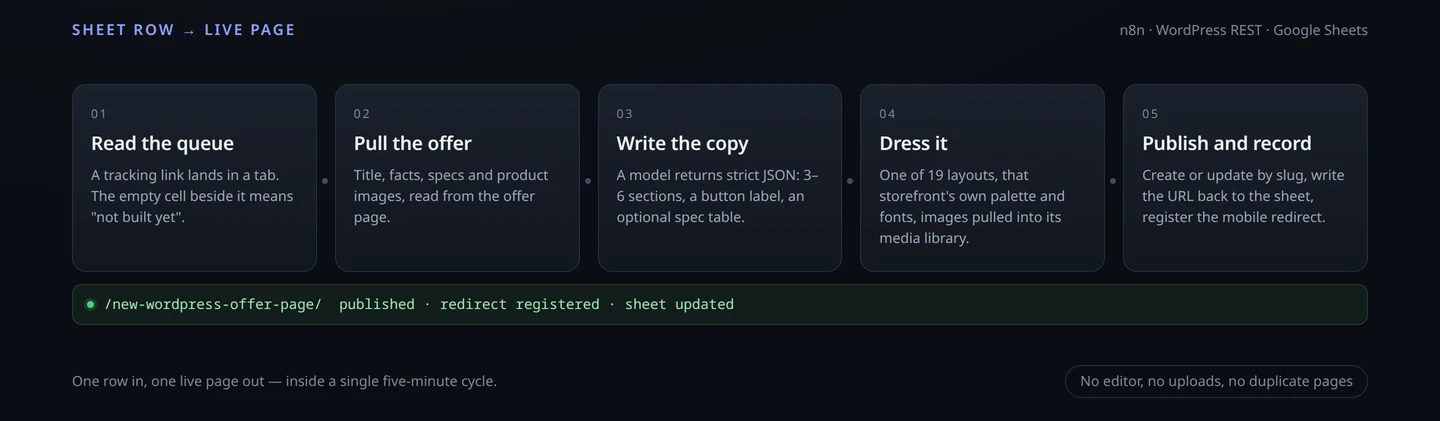
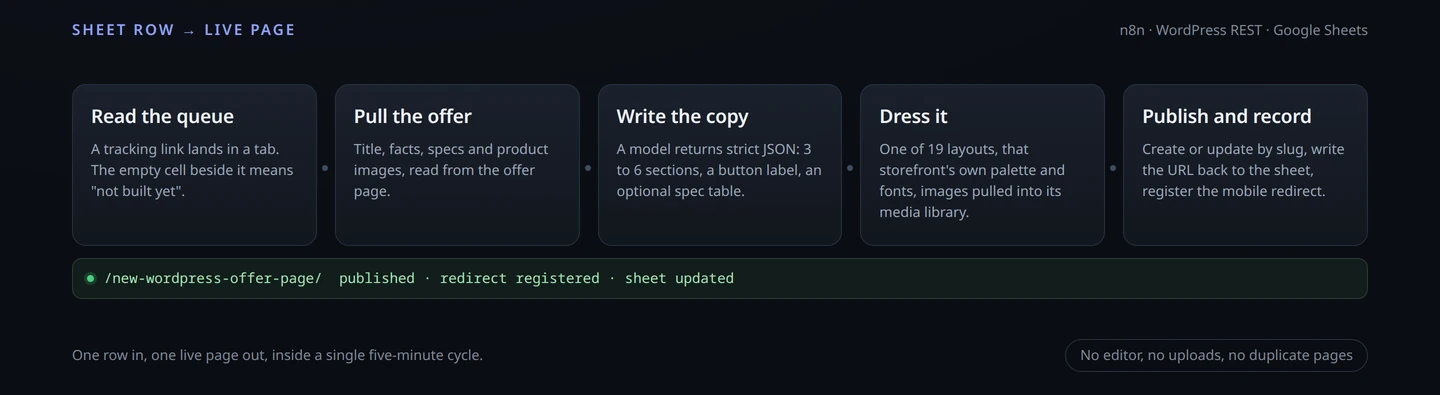
Tighten the offer pipeline page (#7)
Copy pass: removes the four em dashes and three en dashes (every other page
carries one at most), swaps clipped negations for full clauses, cuts passive
drift, and renames two labels that read backwards ("Same page, every
storefront" was about the opposite).

Design pass: headings drop from 50px to 40px, the four hard problems become a
label-and-prose grid instead of a single narrow column, the operator steps get
half-width columns instead of cramped quarters, and the hero is centred
against its mock sheet.

The diagram loses the 01-05 counters to match the page, and its caption loses
an em dash.

diff --git a/work/offer-pipeline/index.html b/work/offer-pipeline/index.html
@@ -26,54 +26,63 @@ a{color:inherit}
 img{display:block;max-width:100%;height:auto}
 .bar a{text-decoration:none}
 
-.hero{display:grid;grid-template-columns:1.1fr .9fr;gap:56px;align-items:center;padding:64px 0 72px}
-h1{font-size:clamp(32px,4.4vw,48px);line-height:1.1;font-weight:500;letter-spacing:-.035em;margin-top:10px}
-.hero p{margin-top:20px;color:var(--muted);font-size:17px;max-width:50ch}
-.facts{display:flex;flex-wrap:wrap;gap:8px;margin-top:28px;list-style:none;font-size:13px}
-.facts li{border:1px solid var(--line);border-radius:99px;padding:4px 12px}
+.hero{display:grid;grid-template-columns:1.15fr .85fr;gap:64px;align-items:center;padding:72px 0 60px}
+h1{font-size:clamp(31px,3.9vw,46px);line-height:1.07;font-weight:500;letter-spacing:-.038em;margin-top:12px;text-wrap:balance}
+.hero p{margin-top:22px;color:var(--muted);font-size:17px;line-height:1.65;max-width:46ch}
+.facts{display:flex;flex-wrap:wrap;gap:8px;margin-top:30px;list-style:none;font-size:13px}
+.facts li{border:1px solid var(--line);border-radius:99px;padding:5px 13px;color:var(--ink-soft)}
 
-.row{background:var(--soft);border:1px solid var(--line);border-radius:16px;overflow:hidden;font-size:13px}
-.row-head{display:flex;gap:8px;padding:10px 14px;border-bottom:1px solid var(--line);color:var(--muted);align-items:center}
+/* mock sheet */
+.row{background:var(--soft);border:1px solid var(--line);border-radius:14px;overflow:hidden;font-size:13px;margin-top:6px}
+.row-head{display:flex;gap:7px;padding:11px 15px;border-bottom:1px solid var(--line);color:var(--muted);align-items:center;font-size:12px}
 .row-head i{width:7px;height:7px;border-radius:50%;background:var(--line);display:inline-block}
-.row-body{padding:14px}
-.grid5{display:grid;grid-template-columns:repeat(5,1fr);gap:6px;font-size:11px;color:var(--muted);margin-bottom:10px}
+.row-body{padding:15px}
+.grid5{display:grid;grid-template-columns:repeat(5,1fr);gap:6px;font-size:10px;letter-spacing:.04em;text-transform:uppercase;color:var(--muted);margin-bottom:9px}
 .grid5 span{white-space:nowrap;overflow:hidden;text-overflow:ellipsis}
-.cell{border:1px solid var(--line);border-radius:6px;padding:7px 8px;background:#fff;font-family:ui-monospace,SFMono-Regular,Menlo,monospace;font-size:11px;line-height:1.35;overflow:hidden;text-overflow:ellipsis;white-space:nowrap}
+.cell{border:1px solid var(--line);border-radius:6px;padding:8px 9px;background:#fff;font-family:ui-monospace,SFMono-Regular,Menlo,monospace;font-size:11px;line-height:1.4;overflow:hidden;text-overflow:ellipsis;white-space:nowrap}
 .cell.link{color:#3a5bd9}
 .cell.done{color:#16794a;background:#f2fbf5;border-color:#cbe9d7}
-.shotline{display:flex;align-items:center;gap:8px;margin-top:12px;font-size:12px;color:var(--muted)}
+.shotline{margin-top:13px;font-size:12.5px;line-height:1.5;color:var(--muted)}
 .shotline b{color:var(--ink);font-weight:600}
 
-figure.ui{padding-bottom:40px}
-figure.ui .frame{border:1px solid var(--line);border-radius:12px;overflow:hidden;background:var(--soft)}
-figcaption{font-size:13px;color:var(--muted);margin-top:12px}
+figure.ui{padding:0 0 8px}
+figure.ui .frame{border:1px solid var(--line);border-radius:14px;overflow:hidden;background:var(--soft)}
+figcaption{font-size:13px;line-height:1.5;color:var(--muted);margin-top:14px;max-width:70ch}
 
-section.block{padding:56px 0 64px}
-.head{display:flex;justify-content:space-between;align-items:baseline;gap:16px;padding-bottom:20px;margin-bottom:24px;border-bottom:1px solid var(--line)}
-h2{font-size:clamp(32px,4.4vw,56px);line-height:1.05;font-weight:500;letter-spacing:-.04em}
-.lede{color:var(--muted);max-width:60ch;margin-bottom:32px}
-.steps{display:grid;grid-template-columns:repeat(4,1fr);gap:24px;list-style:none}
-.steps li{border-top:1px solid var(--ink);padding-top:14px;font-size:15px;color:var(--muted)}
-.steps b{display:block;color:var(--ink);font-weight:600;margin-bottom:4px}
-.steps.two{grid-template-columns:repeat(2,1fr);gap:28px 32px}
-.steps.five{grid-template-columns:repeat(5,1fr)}
-h3.sub{font-size:17px;font-weight:600;margin:48px 0 16px}
-h3.sub:first-child{margin-top:0}
+section.block{padding:68px 0 8px}
+.head{display:flex;justify-content:space-between;align-items:baseline;gap:16px;padding-bottom:16px;margin-bottom:30px;border-bottom:1px solid var(--line)}
+h2{font-size:clamp(26px,3.3vw,40px);line-height:1.08;font-weight:500;letter-spacing:-.035em;text-wrap:balance}
+.lede{color:var(--muted);max-width:56ch;margin-bottom:36px;font-size:17px;line-height:1.65}
+.steps{display:grid;grid-template-columns:repeat(4,1fr);gap:28px;list-style:none}
+.steps li{border-top:1px solid var(--ink);padding-top:15px;font-size:15px;line-height:1.6;color:var(--muted)}
+.steps b{display:block;color:var(--ink);font-weight:600;margin-bottom:6px;font-size:15.5px}
+.steps.two{grid-template-columns:repeat(2,1fr);gap:36px 40px}
+.steps.two li{padding-top:17px}
+/* each problem: label left, prose right */
+.problem{display:grid;grid-template-columns:.42fr 1fr;gap:12px 44px;padding:30px 0;border-top:1px solid var(--line)}
+.problem:first-of-type{border-top:0;padding-top:2px}
+.problem h3{font-size:16.5px;font-weight:600;line-height:1.45;letter-spacing:-.005em;color:var(--ink)}
+.problem p{color:var(--muted);font-size:16px;line-height:1.7;max-width:62ch}
+p.body{color:var(--muted);font-size:16.5px;line-height:1.7;max-width:68ch}
+p.body + p.body{margin-top:16px}
+p.body code{font-family:ui-monospace,SFMono-Regular,Menlo,monospace;font-size:14px;background:var(--soft);border:1px solid var(--line);border-radius:5px;padding:1px 6px}
 
-table{width:100%;border-collapse:collapse;font-size:15px}
-th,td{text-align:left;padding:10px 0;border-top:1px solid var(--line);vertical-align:top}
-th{font-size:13px;font-weight:500;color:var(--muted)}
-td:last-child,th:last-child{text-align:right;white-space:nowrap;padding-left:16px}
-.note{color:var(--muted);font-size:15px;margin-top:20px;max-width:64ch}
-.advice{margin-top:32px;padding:20px 24px;background:var(--soft);border:1px solid var(--line);border-radius:12px;max-width:72ch}
-.advice b{display:block;margin-bottom:4px}
-.advice p{color:var(--muted);font-size:15px}
+table{width:100%;border-collapse:collapse;font-size:15.5px}
+th,td{text-align:left;padding:13px 0;border-top:1px solid var(--line);vertical-align:top;line-height:1.55}
+th{font-size:12px;font-weight:500;letter-spacing:.06em;text-transform:uppercase;color:var(--muted);padding-bottom:10px}
+td:first-child{width:26%;color:var(--ink);font-weight:500;padding-right:28px}
+td:last-child{color:var(--muted)}
+.note{color:var(--muted);font-size:15px;line-height:1.65;margin-top:22px;max-width:64ch}
+.note b{color:var(--ink);font-weight:600}
 
 @media (max-width:60rem){
-  .hero{grid-template-columns:1fr;gap:32px;padding:40px 0 48px}
-  .steps,.steps.five,.steps.two{grid-template-columns:1fr;gap:18px}
-  h2{font-size:clamp(28px,7vw,40px)}
+  .hero{grid-template-columns:1fr;gap:36px;padding:44px 0 52px}
+  .hero p{max-width:60ch}
+  .steps,.steps.two{grid-template-columns:1fr;gap:22px}
+  h2{font-size:clamp(27px,7vw,38px)}
+  section.block{padding:56px 0 32px}
   .grid5{display:none}
+  td:first-child{width:38%;padding-right:16px}
 }
 </style>
 </head>
@@ -84,12 +93,12 @@ td:last-child,th:last-child{text-align:right;white-space:nowrap;padding-left:16p
     <div>
       <p class="label">Case study · Publishing automation</p>
       <h1>One spreadsheet row in. One live landing page out.</h1>
-      <p>A publisher drops an offer's tracking link into a shared sheet. Nobody opens WordPress. Within one poll cycle the page is live on the right storefront: that site's colours and type, the offer's product images pulled into its own media library, copy limited to what the offer page actually states, and the mobile redirect registered.</p>
+      <p>A publisher pastes an offer's tracking link into a shared spreadsheet and closes the tab. Within one poll cycle the page is live on the storefront it belongs to, with that site's colours and type, the offer's images imported into its media library, and the mobile redirect already registered.</p>
       <ul class="facts">
-        <li>One row = one page</li>
+        <li>One row, one page</li>
         <li>Five storefronts</li>
         <li>19 layouts</li>
-        <li>Images pulled in, not hotlinked</li>
+        <li>Images imported, not hotlinked</li>
         <li>Re-runs update, never duplicate</li>
         <li>Operator manual handed over</li>
       </ul>
@@ -97,57 +106,65 @@ td:last-child,th:last-child{text-align:right;white-space:nowrap;padding-left:16p
     <div class="row" aria-label="The sheet is the queue">
       <div class="row-head"><i></i><i></i><i></i><span style="margin-left:8px">New offers</span></div>
       <div class="row-body">
-        <div class="grid5"><span>Offer</span><span>Storefront A</span><span>Storefront B</span><span>Storefront C</span><span>Storefront D</span></div>
+        <div class="grid5"><span>Offer</span><span>Store A</span><span>Store B</span><span>Store C</span><span>Store D</span></div>
         <div class="cell link">link/9f2c1a</div>
         <div class="cell done" style="margin-top:6px">/new-wordpress-offer-page/</div>
-        <div class="shotline"><b>Empty cell</b> beside a link means the page does not exist yet. The URL written back is the receipt.</div>
+        <div class="shotline"><b>An empty cell beside a link</b> means the page does not exist yet. The address written back is the receipt.</div>
       </div>
     </div>
   </section>
 
   <figure class="ui">
     <div class="frame"><img src="../../assets/shots/offer-pipeline-figure.webp" alt="The five stages of the pipeline: read the queue, pull the offer, write the copy, dress it, publish and record" width="1440" height="421" loading="lazy"></div>
-    <figcaption>The whole run, per row. Steps 3 and 4 are the only places a model is involved; everything else is deterministic.</figcaption>
+    <figcaption>The whole run, per row. Only steps 3 and 4 involve a model. Everything else is deterministic.</figcaption>
   </figure>
 
   <section class="block">
     <div class="head"><h2>The whole job, from the operator's side</h2></div>
-    <p class="lede">This is the instruction sheet that went with the handover. Four lines, and one warning.</p>
-    <ol class="steps">
-      <li><b>Paste the link</b>Into the column of the storefront you want it on. The nearest site label above the link decides where the page goes, which is why the label row has to stay intact.</li>
-      <li><b>Check the cell beside it is empty</b>An empty cell is the only thing that makes a row pickable. If there is already an address there, the row counts as finished and is skipped.</li>
-      <li><b>Wait one cycle</b>One link every five minutes, so five links is about twenty-five minutes. Nothing to open, nothing to click.</li>
-      <li><b>Read the receipt</b>The finished page address appears in the cell beside the link. That cell is the record that the page went live.</li>
+    <p class="lede">This is the instruction sheet that went with the handover. Four lines and one warning.</p>
+    <ol class="steps two">
+      <li><b>Paste the link</b>Into the column of the storefront you want it on. The nearest site label above the link decides where the page goes, so the label row has to stay intact.</li>
+      <li><b>Check the cell beside it is empty</b>An empty cell is the only thing that makes a row pickable. If an address is already there, the row counts as finished and the system skips it.</li>
+      <li><b>Wait one cycle</b>One link every five minutes, so five links take about twenty-five minutes. There is nothing to open and nothing to click.</li>
+      <li><b>Read the receipt</b>The finished address appears in the cell beside the link. That cell is the record that the page went live.</li>
     </ol>
-    <p class="note"><b>There is no review step.</b> A page publishes the moment it is built, which is why the instruction sheet opens with checking the link and the row before pasting.</p>
+    <p class="note"><b>There is no review step.</b> A page publishes as soon as it is built, which is why the instruction sheet says to check the link and the row before pasting.</p>
   </section>
 
   <section class="block">
     <div class="head"><h2>What it replaced</h2></div>
-    <p class="lede">Every offer used to mean a hand-built page: open the tracking link, read the offer, write the copy, assemble the blocks, upload the product shots, publish, then add the mobile redirect by hand. Twenty-five offers went through the new pipeline before I called it done.</p>
+    <p class="lede">Every offer used to mean a hand-built page: open the tracking link, read the offer, write the copy, assemble the blocks, upload the product shots, publish, then add the mobile redirect by hand. The pipeline ran twenty-five offers before I called it done.</p>
     <ol class="steps two">
-      <li><b>Same page, every storefront</b>Each storefront has its own palette, fonts and layout set. A page built for one never looks pasted into another.</li>
-      <li><b>The offer decides the copy</b>The model works from the offer page and returns a fixed JSON shape. If a price, a shipping cost or a guarantee is not in the source, it is not on the page.</li>
-      <li><b>The sheet is the state</b>No database, no dashboard. A filled cell means done; an empty one means build it. The publisher can see the queue at a glance and add rows from a phone.</li>
-      <li><b>Nothing to hand over</b>The run books itself: page URL written back, redirect entry merged, and a re-run of the same row updates that page instead of creating a second one.</li>
+      <li><b>One palette per storefront</b>Each storefront has its own palette, fonts and layout set, so a page built for one never looks pasted into another.</li>
+      <li><b>The offer decides the copy</b>The model works from the offer page and returns a fixed JSON shape. If a price, a shipping cost or a guarantee is not in the source, it does not reach the page.</li>
+      <li><b>The sheet is the queue</b>There is no database and no dashboard. A filled cell means done and an empty one means build it, so the publisher can read the queue at a glance or add a row from a phone.</li>
+      <li><b>The run books itself</b>The page address is written back to the sheet, the redirect entry is merged, and re-running the same row updates that page instead of creating a second one.</li>
     </ol>
   </section>
 
   <section class="block">
-    <div class="head"><h2>The parts that were actually hard</h2></div>
-    <p class="lede">Four problems took most of the build. None of them were the model.</p>
+    <div class="head"><h2>Where the time went</h2></div>
+    <p class="lede">Four problems took most of the build. The model was not one of them.</p>
 
-    <h3 class="sub">The offer's images refuse to load</h3>
-    <p class="note">Most offer pages sit behind a bot filter that answers <code>403</code> to anything from a data-centre address: the raw fetch, a real Chrome, and an anti-detect browser all got the same refusal. A screenshot was never an option either, for the same reason. So the page is not asked to fetch the image at all. WordPress pulls it through its own hosting address, which the filter allows, and stores it as a normal media item — reusing the existing attachment when the same filename has been imported before, so repeated runs do not fill the library with copies.</p>
+    <div class="problem">
+      <h3>The offer's images refuse to load</h3>
+      <p>Most offer pages sit behind a bot filter that answers <code>403</code> to anything from a data-centre address. The raw fetch, a real Chrome and an anti-detect browser all got the same refusal, so screenshotting the page was never an option either. Instead the page is not asked to fetch anything: WordPress pulls the image through its own hosting address, which the filter allows, and stores it as a normal media item. When a file with the same name has been imported before, the existing attachment is reused, so repeated runs do not fill the library with duplicates.</p>
+    </div>
 
-    <h3 class="sub">Layout slots versus what the model returns</h3>
-    <p class="note">A model is happy to put an image in section one; a layout may only keep image slots in section three. The first build dropped every image silently because of that mismatch. The fix is unglamorous: collect every image the model returns into one ordered list, then fill the layout's slots in document order. When an offer brings five or more images, the run switches to a layout built for them — hero image, a three-across strip, and a closing banner.</p>
+    <div class="problem">
+      <h3>Layout slots versus what the model returns</h3>
+      <p>A model is happy to put an image in section one, while a layout may only keep image slots in section three. The first build dropped every image silently because of that mismatch. The fix is unglamorous. Collect every image the model returns into one ordered list, then fill the layout's slots in document order. When an offer brings five or more images, the run switches to a layout built for them: a hero image, a three-across strip and a closing banner.</p>
+    </div>
 
-    <h3 class="sub">Redirects, without losing a file</h3>
-    <p class="note">Each storefront keeps its page-to-offer map in a JSON file, and the filename differs per site. The merge reads the file, adds one key, and writes it back with the original two-space formatting and key order, so a one-line change stays a one-line change. It refuses to write at all if the JSON does not parse, swaps the file atomically, and keeps a backup — three ways a corrupted file would otherwise have wiped a hundred-plus mappings.</p>
+    <div class="problem">
+      <h3>Redirects, without losing a file</h3>
+      <p>Each storefront keeps its page-to-offer map in a JSON file, and the filename differs per site. The merge reads that file, adds one key, and writes it back with the original two-space indentation and key order, so a one-line change stays a one-line change. If the JSON does not parse it refuses to write at all, and the write itself swaps the file atomically after taking a backup. Without those guards one corrupted file could wipe a hundred-plus mappings.</p>
+    </div>
 
-    <h3 class="sub">One bad offer must not stall the queue</h3>
-    <p class="note">Offers that are region-locked, dead, or unreadable get a note in their own sheet cell instead of blocking the rest. The poller works on a time-sliced rotation, so a failing row is retried on a later cycle while the others keep flowing.</p>
+    <div class="problem">
+      <h3>One bad offer must not stall the queue</h3>
+      <p>Offers that are region-locked, dead or unreadable get a note in their own sheet cell instead of blocking the rest. The poller works on a time-sliced rotation, so a failing row is retried on a later cycle while the others keep moving.</p>
+    </div>
   </section>
 
   <section class="block">
@@ -155,46 +172,46 @@ td:last-child,th:last-child{text-align:right;white-space:nowrap;padding-left:16p
     <table>
       <thead><tr><th>Part</th><th>Rule the pipeline enforces</th></tr></thead>
       <tbody>
-        <tr><td>Copy</td><td>Only facts present in the offer page; 3–6 sections; a button label of five words or fewer</td></tr>
-        <tr><td>Spec table</td><td>Added only when the source states real specs, sizes or prices</td></tr>
+        <tr><td>Copy</td><td>Facts from the offer page only, 3 to 6 sections, a button label of five words or fewer</td></tr>
+        <tr><td>Spec table</td><td>Added when the source states real specs, sizes or prices</td></tr>
         <tr><td>Colour and type</td><td>That storefront's palette and font pair, taken from its own published pages</td></tr>
         <tr><td>Button contrast</td><td>Label and fill kept at 4.5:1 or better, checked at build time</td></tr>
         <tr><td>Images</td><td>Imported into the site's media library and referenced host-relative, never hotlinked</td></tr>
         <tr><td>Re-runs</td><td>The slug already in the sheet is reused, so the page is updated rather than duplicated</td></tr>
-        <tr><td>Mobile</td><td>Visitors on a phone are forwarded to the offer; desktop visitors read the page</td></tr>
+        <tr><td>Mobile</td><td>Phone visitors are forwarded to the offer while desktop visitors read the page</td></tr>
       </tbody>
     </table>
-    <p class="note">Nineteen layouts across five storefronts, including a handful that carry no images at all for offers whose shots cannot be imported.</p>
+    <p class="note">Nineteen layouts across five storefronts, including a few that carry no images at all, for offers whose shots cannot be imported.</p>
   </section>
 
   <section class="block">
     <div class="head"><h2>What it does not do</h2></div>
     <ol class="steps two">
-      <li><b>It does not invent offers</b>If the offer page cannot be read, no page is published. A blank cell in the sheet is better than a page making claims the advertiser never made.</li>
-      <li><b>It does not chase approvals</b>Pages go live in the same cycle. Nothing is held in draft for review — that was a deliberate choice for this publisher's workflow.</li>
-      <li><b>It does not manage the offer itself</b>Prices, stock and deadlines belong to the advertiser. The page links out; it never restates a number it was not given.</li>
-      <li><b>It does not replace design</b>The layouts were designed once, by hand, and the pipeline reuses them. It decides which one fits, not how it looks.</li>
+      <li><b>It does not invent an offer</b>If the offer page cannot be read, no page is published. A blank cell is better than a page making claims the advertiser never made.</li>
+      <li><b>It does not wait for approval</b>Pages go live in the cycle that builds them. Holding them in draft was possible, and this publisher chose not to.</li>
+      <li><b>It does not manage the offer</b>Prices, stock and deadlines belong to the advertiser. The page links out and never restates a number it was not given.</li>
+      <li><b>It does not replace design</b>The layouts were designed by hand, once. The pipeline decides which one fits, not how it looks.</li>
     </ol>
   </section>
 
   <section class="block">
     <div class="head"><h2>Who this is for</h2></div>
-    <p class="lede">A publisher or affiliate operator with more offers than staff: several storefronts, well over a hundred landing pages already live, and one person rebuilding each new page by hand in the WordPress editor. It also suits an agency producing campaign pages at volume, where the layout is already settled and only the copy and the assets change.</p>
-    <p class="note">It is a poor fit when every page needs a bespoke design, or when pages have to be signed off one by one before they go live. The pipeline publishes immediately by design, and that is the trade it makes for speed.</p>
+    <p class="body">A publisher or affiliate operator with more offers than staff: several storefronts, well over a hundred pages already live, and one person rebuilding each new page by hand in the WordPress editor. It also suits an agency producing campaign pages at volume, where the layout is settled and only the copy and the assets change.</p>
+    <p class="body">Poor fit when every page needs a bespoke design, or when pages have to be signed off one at a time. This pipeline publishes immediately, and that is the trade it makes for speed.</p>
   </section>
 
   <section class="block">
     <div class="head"><h2>What stays private</h2></div>
     <p class="lede">This page shows the design and the decisions, not the delivery.</p>
     <ol class="steps">
-      <li><b>The source</b>The workflow, the layout files and the site-side endpoints are not published, because they run a live commercial pipeline.</li>
-      <li><b>The client</b>The stores are described here as A–D. Their names, offers and traffic are not mine to publish.</li>
+      <li><b>The source</b>The workflow, the layout files and the site-side endpoints stay private because they run a live commercial pipeline.</li>
+      <li><b>The client</b>The storefronts are A to D here. Their names, offers and traffic are not mine to publish.</li>
       <li><b>Credentials</b>Every key, token and per-site password lives in the deployment, never in this page.</li>
-      <li><b>The numbers</b>Row counts and layout counts above are what the system reports about itself. There are no invented revenue or traffic figures.</li>
+      <li><b>The numbers</b>The counts above are what the system reports about itself. There are no invented revenue or traffic figures.</li>
     </ol>
   </section>
 </main>
-<footer><div class="wrap">The storefronts are referred to as A–D at the publisher's request. The pipeline, layouts and site-side endpoints stay private because they run a live commercial operation.</div></footer>
+<footer><div class="wrap">The storefronts are A to D at the publisher's request. The pipeline, layouts and site-side endpoints stay private because they run a live commercial operation.</div></footer>
 
 </body>
 </html>
